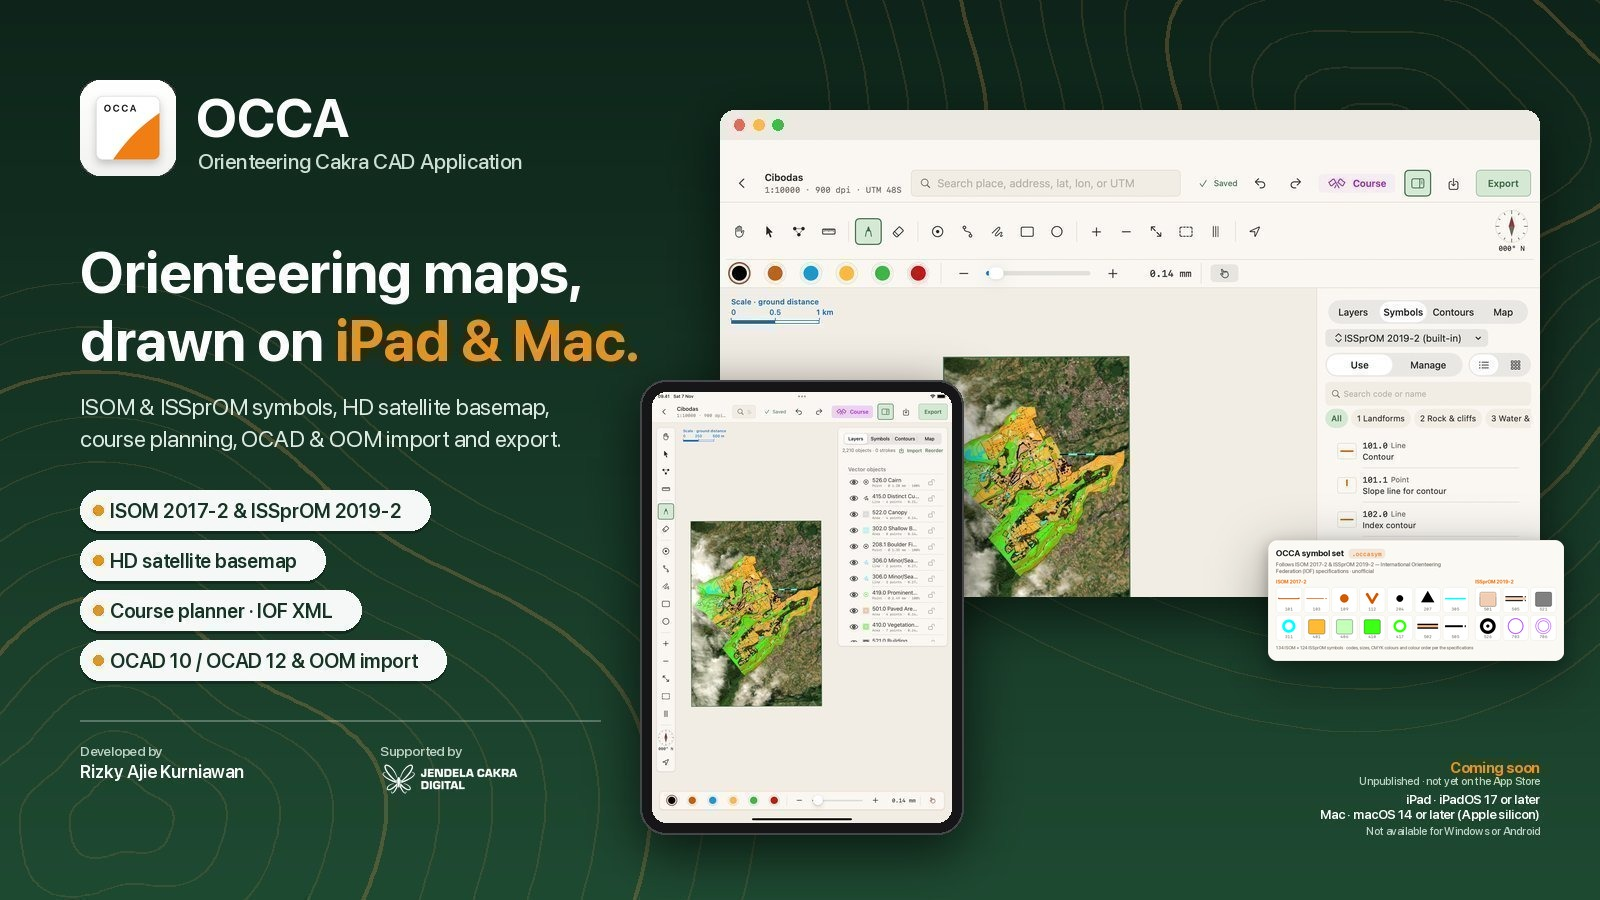
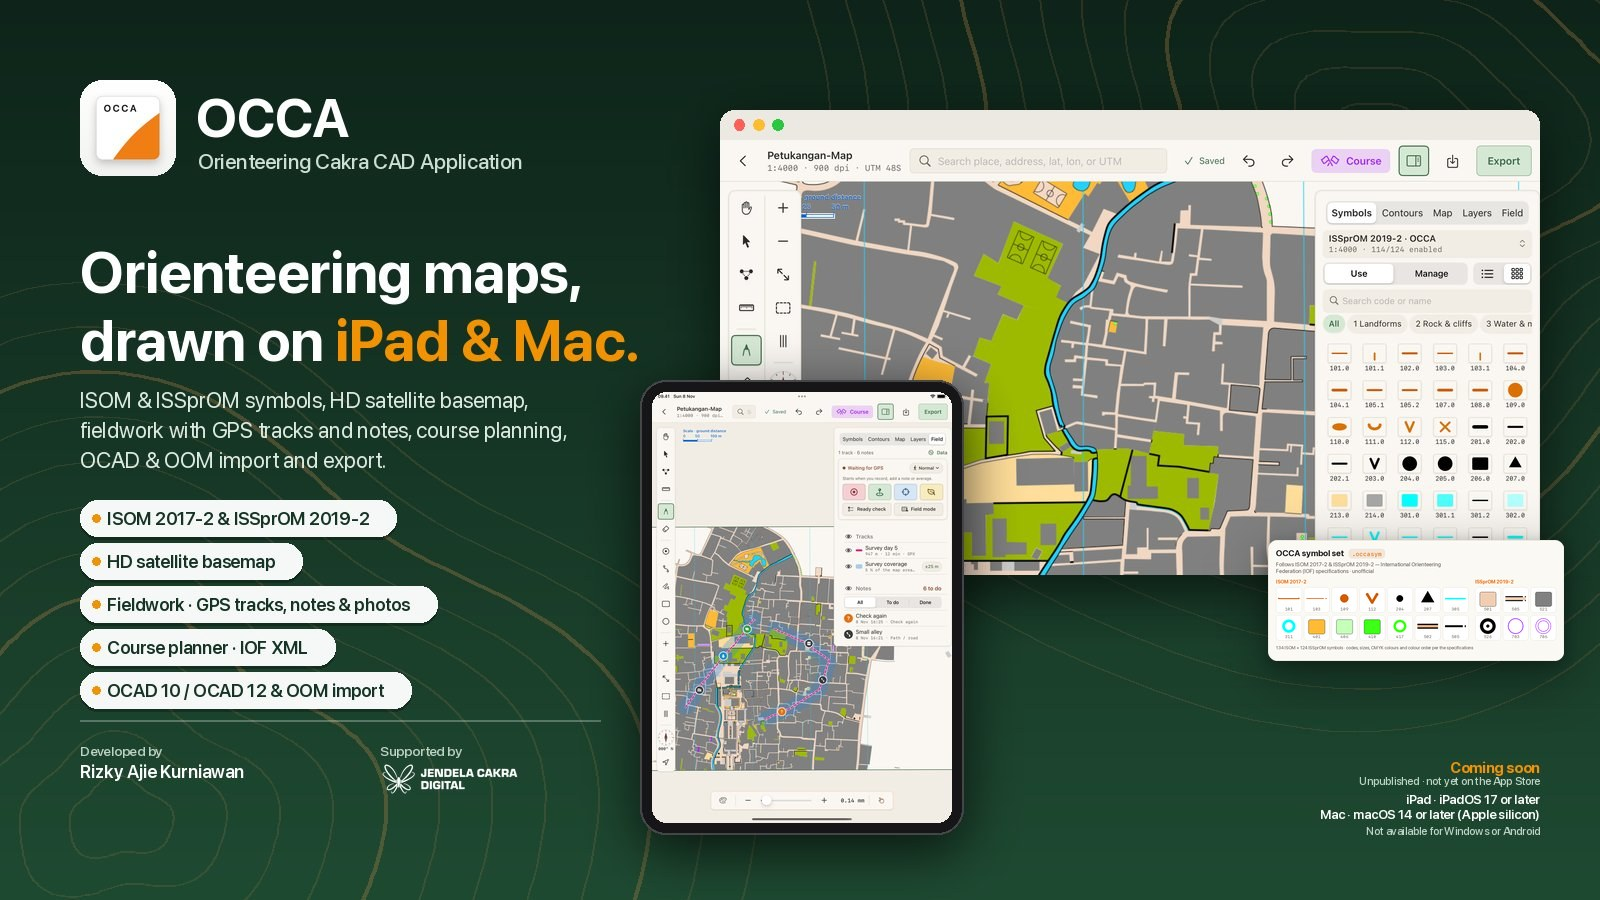
Update promo images with fieldwork
- Hero and story: new subtitle and a Fieldwork chip (GPS tracks, notes
  and photos); fresh screenshots from the simulator — Mac window with
  the Symbols grid, iPad with the Field tab (tracks, coverage, notes) —
  showing the current tab order
- DEBUG launch arguments for screenshots: -cp-zoom-to, -cp-hide-field;
  -cp-field-coverage also shows tracks and notes

Changed region(s): [[0.4062, 0.1556, 0.9688, 0.9333], [0.0312, 0.4356, 0.375, 0.8089], [0.1875, 0.3422, 0.4062, 0.4044]]

diff --git a/CakraPencil/Workspace/WorkspaceView.swift b/CakraPencil/Workspace/WorkspaceView.swift
@@ -208,6 +208,16 @@ struct WorkspaceView: View {
             if let i = args.firstIndex(of: "-cp-import-gpx"), i + 1 < args.count {
                 await model.importGPX(from: docs.appendingPathComponent(args[i + 1]))
             }
+            // `-cp-zoom-to fx,fy,spanM`: center the map at a point given as fractions of the frame, showing spanM meters
+            // (screenshots).
+            if let i = args.firstIndex(of: "-cp-zoom-to"), i + 1 < args.count, let f = model.frame, let zone = model.zone {
+                let v = args[i + 1].split(separator: ",").compactMap { Double($0) }
+                if v.count == 3 {
+                    try? await Task.sleep(for: .seconds(2.5))
+                    let p = Point2D(x: f.origin.x + f.widthM * v[0], y: f.origin.y + f.heightM * v[1])
+                    model.mapCommand = MapCommand(kind: .center(zone.unproject(p), spanM: v[2]))
+                }
+            }
             // `-cp-sample-photo-note`: a field note with a generated photo (camera facing NE) near the frame center.
             if args.contains("-cp-sample-photo-note"), let f = model.frame {
                 let img = UIGraphicsImageRenderer(size: CGSize(width: 1200, height: 900)).image { ctx in
@@ -220,6 +230,10 @@ struct WorkspaceView: View {
                     model.addFieldNote(category: .boulder, text: "Boulder with photo", photos: [data], heading: 45, atGPS: false, position: c)
                 }
             }
+            // `-cp-field-coverage`: tracks, notes and survey coverage shading shown (screenshots).
+            if args.contains("-cp-field-coverage") { model.updateField { $0.showTracks = true; $0.showNotes = true; $0.showCoverage = true } }
+            // `-cp-hide-field`: tracks, notes and coverage hidden (screenshots of the drawing).
+            if args.contains("-cp-hide-field") { model.updateField { $0.showTracks = false; $0.showNotes = false; $0.showCoverage = false } }
             // `-cp-export-field <file>` / `-cp-import-field <file>`: field data to / from Documents (UI tests).
             if let i = args.firstIndex(of: "-cp-export-field"), i + 1 < args.count {
                 try? await Task.sleep(for: .seconds(1))
